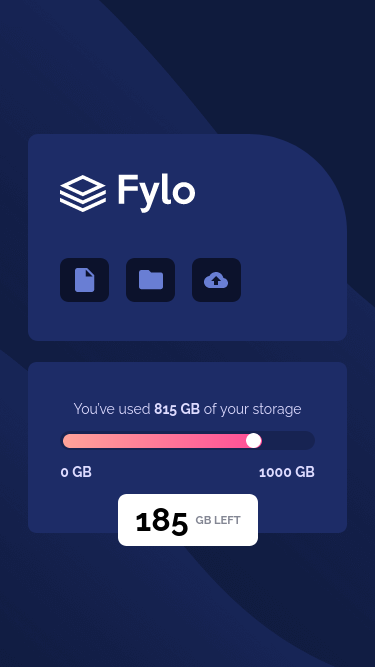
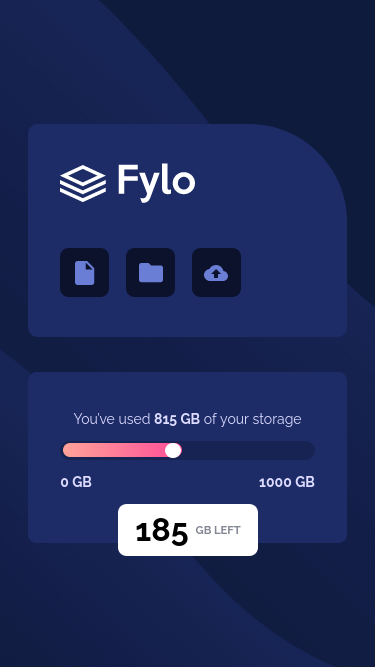
Finished challenge

diff --git a/style.css b/style.css
@@ -26,10 +26,8 @@
 .page-container {
   width: 100vw;
   height: 100vh;
-  /* max-width: 375px; */
   background: url(./images/bg-mobile.png);
   background-repeat: no-repeat;
-  /* background-attachment: local; */
   background-size: cover;
   display: flex;
   align-items: center;
@@ -66,7 +64,7 @@
 .tittle {
   background: var(--Dark-Blue);
   border-radius: 0.7rem 7rem 0.7rem 0.7rem;
-  margin-bottom: 1.5rem;
+  margin-bottom: 2.5rem;
 }
 
 .tittle__icons {
@@ -78,7 +76,7 @@
 
 .tittle__icons-box {
   background: var(--Very-Dark-Blue);
-  padding: 0.7rem;
+  padding: 0.9rem;
   margin-right: 1.2rem;
   border-radius: 0.6rem;
   width: 3.5rem;
@@ -91,7 +89,7 @@
   outline: 1px solid var(--Very-Dark-Blue);
 }
 
-.tittle__icons-box img {
+.icon {
   margin: auto;
 }
 
@@ -211,6 +209,15 @@
 @media screen and (min-width: 700px) {
   .container {
     width: 70%;
+  }
+
+  .tittle__icons-box {
+    padding: 0.9rem;
+    width: 3.8rem;
+  }
+
+  .icon {
+    width: 2.4rem;
   }
 }
 /* Desktop */
